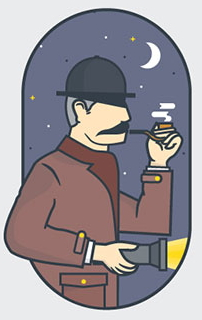
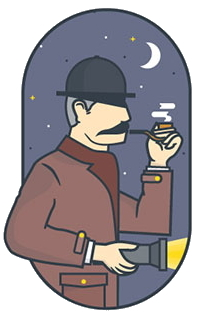
PNG

diff --git a/index.html b/index.html
@@ -15,10 +15,9 @@
                  margin-left: 25%; 
                  margin-top: 8%; 
                  display: inline-block;">
-        <img src="./serlokas.jpg" 
+        <img src="./serlokas.png" 
                     alt="Serlokas su pypke" 
-                    style="background-color: pink; 
-                    width: 40%; 
+                    style="width: 40%; 
                     float: left;">
         <div style="margin-top: 17%;
                     width: 50%; 
@@ -96,5 +95,6 @@ Spalvu formatai:
 RGB: "background-color: rgb(234, 235,237);
 HEX:"background-color: #eaebed;
 HSV: background-color: hsl(220, 1%, 92%);
+#eaebed
 
 -->
